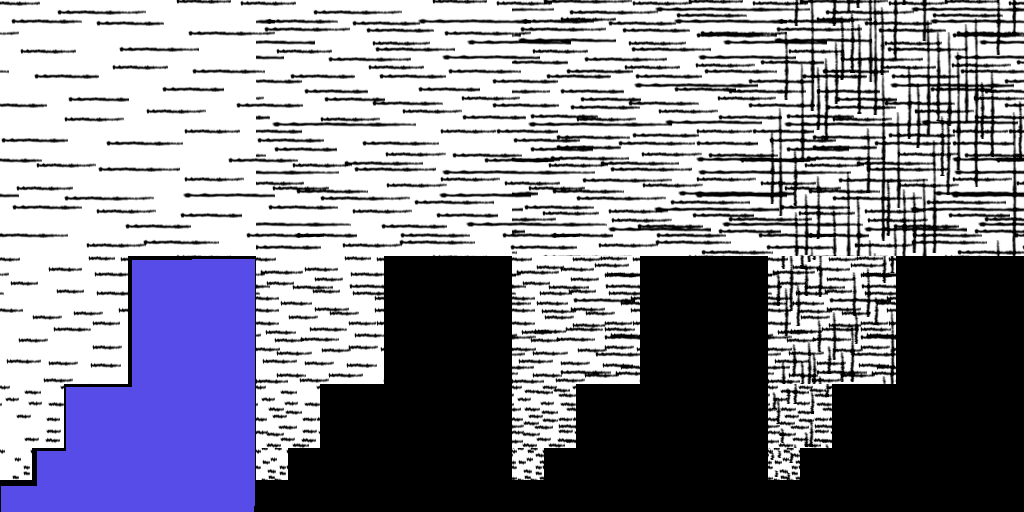
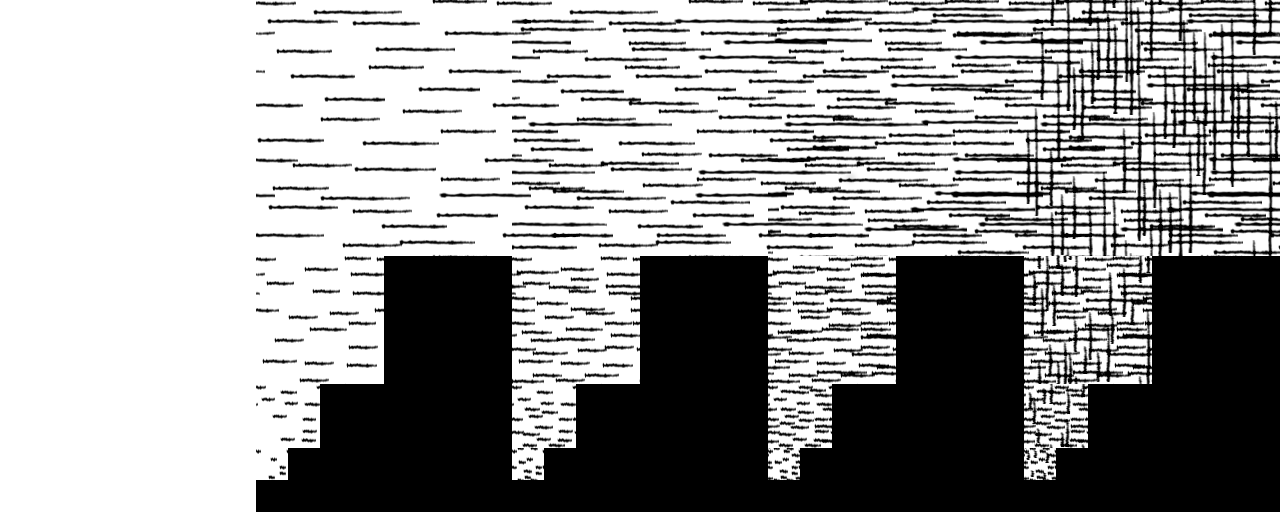
SSAO + cell shading?

diff --git a/renderer.cpp b/renderer.cpp
@@ -51,8 +51,14 @@ Renderer::Renderer(
 Renderer generateSSAORenderer(BindScene bindScene) {
   auto gFBO = make_shared<FBO>(WIDTH, HEIGHT);
   auto ssaoFBO = make_shared<FBO>(WIDTH, HEIGHT);
+  auto blurFBO = make_shared<FBO>(WIDTH, HEIGHT);
 
   Texture noiseTexture = newTexture("noise.png");
+
+  int numTones = 5;
+  int numMips = 4;
+  Texture tilesTexture = newTexture("mipped_hatches.png");
+  checkErrors();
 
   // The first shader renders normals/positions/uv to an fbo
   GLuint gShader = generateShaderProgram("gbuffer.vert", "gbuffer.frag");
@@ -84,7 +90,25 @@ Renderer generateSSAORenderer(BindScene bindScene) {
   ssaoFBO->BindToShader(blurShader);
   checkErrors();
 
-  vector<string> sources = {"gbuffer.vert", "gbuffer.frag", "render_buffer.vert", "deferred_ssao.frag", "blur.frag"};
+  // The fourth shader computes the hatched ssao
+  GLuint hatchShader = generateShaderProgram("render_buffer.vert", "deferred_hatched.frag");
+  Uniforms hatchUniforms;
+  hatchUniforms.add(hatchShader, {
+      NUM_MIPS, NUM_TONES, TILES_TEXTURE,
+      POSITIONS, NORMALS, UVS,
+      BUFFER,
+      LIGHT_DIR,
+      VIEW_TRANS,
+  });
+  blurFBO->BindToShader(hatchShader);
+  checkErrors();
+
+  vector<string> sources = {
+      "gbuffer.vert", "gbuffer.frag",
+      "render_buffer.vert", "deferred_ssao.frag",
+      "blur.frag",
+      "deferred_hatched.frag"
+  };
   long int t = getModifiedTime(sources);
   auto render = [=] (SetupScene setupScene, RenderScene renderScene) {
     { // gbuffer render pass
@@ -119,7 +143,7 @@ Renderer generateSSAORenderer(BindScene bindScene) {
 
     { // blur render pass
       glUseProgram(blurShader);
-      glBindFramebuffer(GL_FRAMEBUFFER, 0);
+      glBindFramebuffer(GL_FRAMEBUFFER, blurFBO->GetFrameBuffer());
 
       glUniform1i(blurUniforms.get(BUFFER), ssaoFBO->GetAttachment(0).index);
       checkErrors();
@@ -127,79 +151,57 @@ Renderer generateSSAORenderer(BindScene bindScene) {
       ssaoFBO->Render();
       checkErrors();
     }
+
+    { // hatching render pass
+      glUseProgram(hatchShader);
+      glBindFramebuffer(GL_FRAMEBUFFER, 0);
+
+      glm::vec3 lightDir = glm::vec3(-1,-1,-1);
+      glUniform3fv(hatchUniforms.get(LIGHT_DIR), 1, glm::value_ptr(lightDir));
+
+      glUniform1i(hatchUniforms.get(NUM_TONES), numTones);
+      glUniform1i(hatchUniforms.get(NUM_MIPS), numMips);
+      glUniform1i(hatchUniforms.get(TILES_TEXTURE), tilesTexture.index);
+
+      glUniform1i(hatchUniforms.get(POSITIONS), gFBO->GetAttachment(0).index);
+      glUniform1i(hatchUniforms.get(NORMALS), gFBO->GetAttachment(1).index);
+      glUniform1i(hatchUniforms.get(UVS), gFBO->GetAttachment(2).index);
+      glUniform1i(hatchUniforms.get(BUFFER), blurFBO->GetAttachment(0).index);
+      checkErrors();
+
+      setupScene(hatchUniforms);
+
+      blurFBO->Render();
+      checkErrors();
+    }
   };
 
   return Renderer(sources, render, t);
 }
 
-Renderer generateHatchedRenderer(BindScene bindScene) {
-  GLuint bufferShader = generateShaderProgram("gbuffer.vert", "gbuffer.frag");
-  Uniforms bufferUniforms;
-  bufferUniforms.add(bufferShader, {
-      MODEL_TRANS, VIEW_TRANS, PROJ_TRANS
+Renderer generateSimpleRenderer(BindScene bindScene) {
+  GLuint shader = generateShaderProgram("simple.vert", "simple.frag");
+  bindScene(shader);
+
+  Uniforms uniforms;
+  uniforms.add(shader, {
+      MODEL_TRANS, VIEW_TRANS, PROJ_TRANS, COLOR
   });
-  bindScene(bufferShader);
 
-  GLuint hatchedShader = generateShaderProgram("render_buffer.vert", "deferred_hatched.frag");
-  Uniforms hatchedUniforms;
-  hatchedUniforms.add(hatchedShader, {
-      POSITIONS, NORMALS, DEPTHS, UVS, LIGHT_DIR,
-      NUM_MIPS, NUM_TONES, TILES_TEXTURE,
-      VIEW_TRANS,
-  });
-  checkErrors();
-
-  int numTones = 4;
-  int numMips = 4;
-  Texture tilesTexture = newTexture("mipped_hatches.png");
-  checkErrors();
-
-  auto fbo = make_shared<FBO>(WIDTH, HEIGHT);
-  fbo->BindToShader(hatchedShader);
-  checkErrors();
-
-  vector<string> sources = {
-      "gbuffer.vert", "gbuffer.frag", "render_buffer.vert", "deferred_hatched.frag"
-  };
-  auto t = getModifiedTime(sources);
   auto render = [=] (SetupScene setupScene, RenderScene renderScene) {
-    // draw to the frame buffer
-    glUseProgram(bufferShader);
-    glBindFramebuffer(GL_FRAMEBUFFER, fbo->GetFrameBuffer());
-    glEnable(GL_DEPTH_TEST);
-    clearActiveBuffer(0,0,0,0, GL_COLOR_BUFFER_BIT | GL_DEPTH_BUFFER_BIT);
-    checkErrors();
-
-    // render scene
-    setupScene(bufferUniforms);
-    renderScene(bufferUniforms);
-    checkErrors();
-
-    // draw the frame buffer to the screen
-    glUseProgram(hatchedShader);
     glBindFramebuffer(GL_FRAMEBUFFER, 0);
+    glUseProgram(shader);
+
+    glEnable(GL_DEPTH_TEST);
     clearActiveBuffer();
-
-    setupScene(hatchedUniforms);
-
-    // setup lighting
-    glm::vec3 lightDir = glm::vec3(-1,-1,-1);
-
-    glUniform3fv(hatchedUniforms.get(LIGHT_DIR), 1, glm::value_ptr(lightDir));
-
-    glUniform1i(hatchedUniforms.get(NUM_TONES), numTones);
-    glUniform1i(hatchedUniforms.get(NUM_MIPS), numMips);
-    glUniform1i(hatchedUniforms.get(TILES_TEXTURE), tilesTexture.index);
-
-    glUniform1i(hatchedUniforms.get(POSITIONS), fbo->GetAttachment(0).index);
-    glUniform1i(hatchedUniforms.get(NORMALS), fbo->GetAttachment(1).index);
-    glUniform1i(hatchedUniforms.get(UVS), fbo->GetAttachment(2).index);
-    glUniform1i(hatchedUniforms.get(DEPTHS), fbo->GetDepth().index);
     checkErrors();
 
-    fbo->Render();
+    setupScene(uniforms);
+    renderScene(uniforms);
     checkErrors();
   };
+  vector<string> sources = {"simple.vert", "simple.frag"};
+  long int t = getModifiedTime(sources);
 
   return Renderer(sources, render, t);
 }

diff --git a/main.cpp b/main.cpp
@@ -45,6 +45,7 @@ static Model loadNanosuit() {
   modelTrans = glm::translate(modelTrans, glm::vec3(0, 0, -0.5));
   modelTrans = glm::rotate(modelTrans, (float) (M_PI / 2.0), glm::vec3(0, 0, 1));
   modelTrans = glm::rotate(modelTrans, (float) (M_PI / 2.0), glm::vec3(1, 0, 0));
+
   float scale = 1.0f / model.GetSize();
   modelTrans = glm::scale(modelTrans, glm::vec3(scale, scale, scale));
 
@@ -98,7 +99,7 @@ int sdlMain() {
   glewInit();
   checkErrors();
 
-  auto camera = FPSCamera(); //RotationCamera(); //FPSCamera();
+  auto camera = FPSCamera();
   auto model = loadHouse();
 
   glm::mat4 viewTrans = glm::lookAt(
@@ -131,8 +132,8 @@ int sdlMain() {
   typedef function<Renderer(BindScene)> Generator;
   vector<Generator> generators = {
       // generateDeferredRenderer,
-      generateHatchedRenderer,
-      // generateSimpleRenderer,
+      // generateHatchedRenderer,
+      generateSimpleRenderer,
       generateSSAORenderer,
   };
 

diff --git a/renderer.h b/renderer.h
@@ -47,8 +47,8 @@ private:
   long int loadTime;
 };
 
-Renderer generateHatchedRenderer(BindScene bindScene);
-//Renderer generateSimpleRenderer(BindScene bindScene);
+//Renderer generateHatchedRenderer(BindScene bindScene);
+Renderer generateSimpleRenderer(BindScene bindScene);
 //Renderer generateDeferredRenderer();
 Renderer generateSSAORenderer(BindScene bindScene);
 

diff --git a/camera.cpp b/camera.cpp
@@ -35,7 +35,7 @@ RotationCamera::RotationCamera() {
 
   this->projTrans = glm::perspective(
       45.0f, // fov y
-      HEIGHT / (float) WIDTH, // aspect
+      WIDTH / (float) HEIGHT, // aspect
       0.1f,  // near
       100.0f  //far
   );
